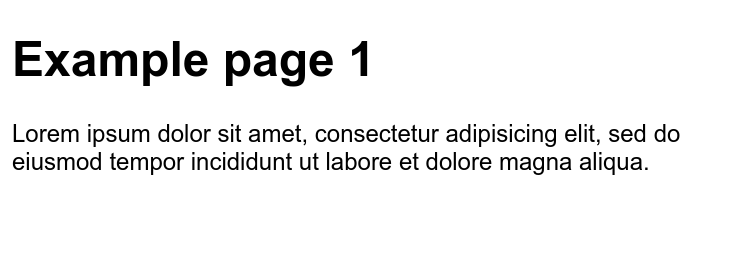
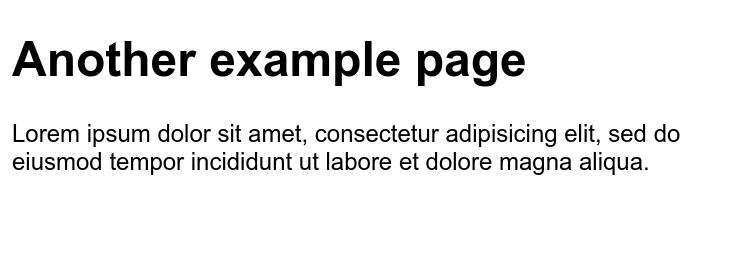
The page parameter in the call to draw-io was completly missing resulting in only the first page (page zero) being exported

Changed region(s): [[0.0, 0.1527, 0.7101, 0.3359]]

diff --git a/DrawIOexporter/draw-io-export.py b/DrawIOexporter/draw-io-export.py
@@ -122,6 +122,7 @@ print(("Using output base filename %s") % (basename))
 print(("Sending result files to directory %s") % (directory))
 
 root = ET.parse(inputFullPath).getroot()
+pageNumber = 0
 for diagram in root.findall('diagram'):
 
     # get the name-attribute of the diagram element
@@ -132,7 +133,7 @@ for diagram in root.findall('diagram'):
     newfilename = directory + "/" + basename + ' - ' + pagename + '.png'
 
     # construct a command line. assume that drawio can be run using the path-variable
-    commandline = "drawio -x -o '" + newfilename + "' -f " + format + " -s " + scale
+    commandline = "drawio -x -p "  + str(pageNumber) + " -o '" + newfilename + "' -f " + format + " -s " + scale
     if transparent:
         commandline += " -t"
 
@@ -143,3 +144,5 @@ for diagram in root.findall('diagram'):
     result = os.system(commandline)
     if result != 0:
         print("#Error running command line")
+    pageNumber += 1
+
